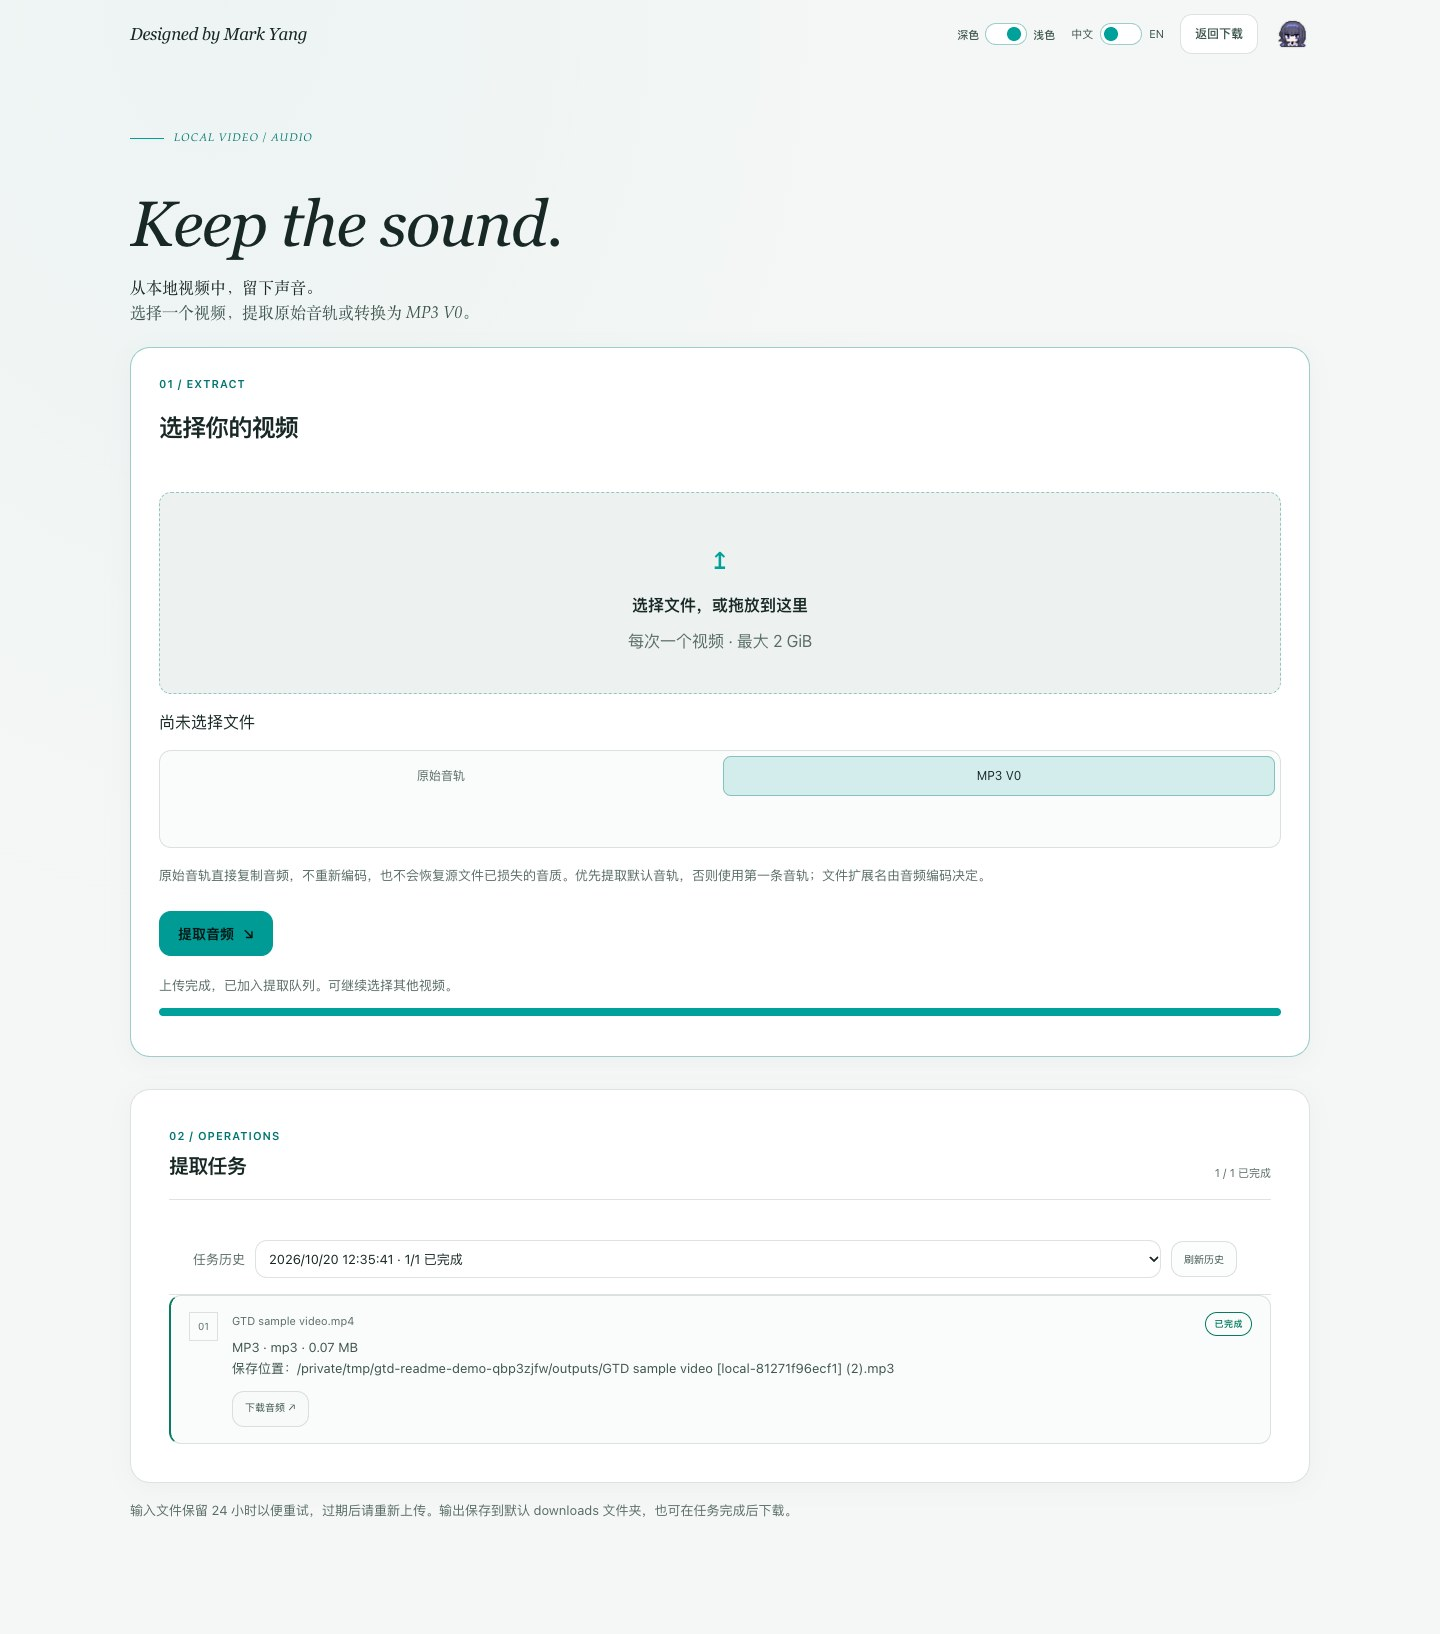
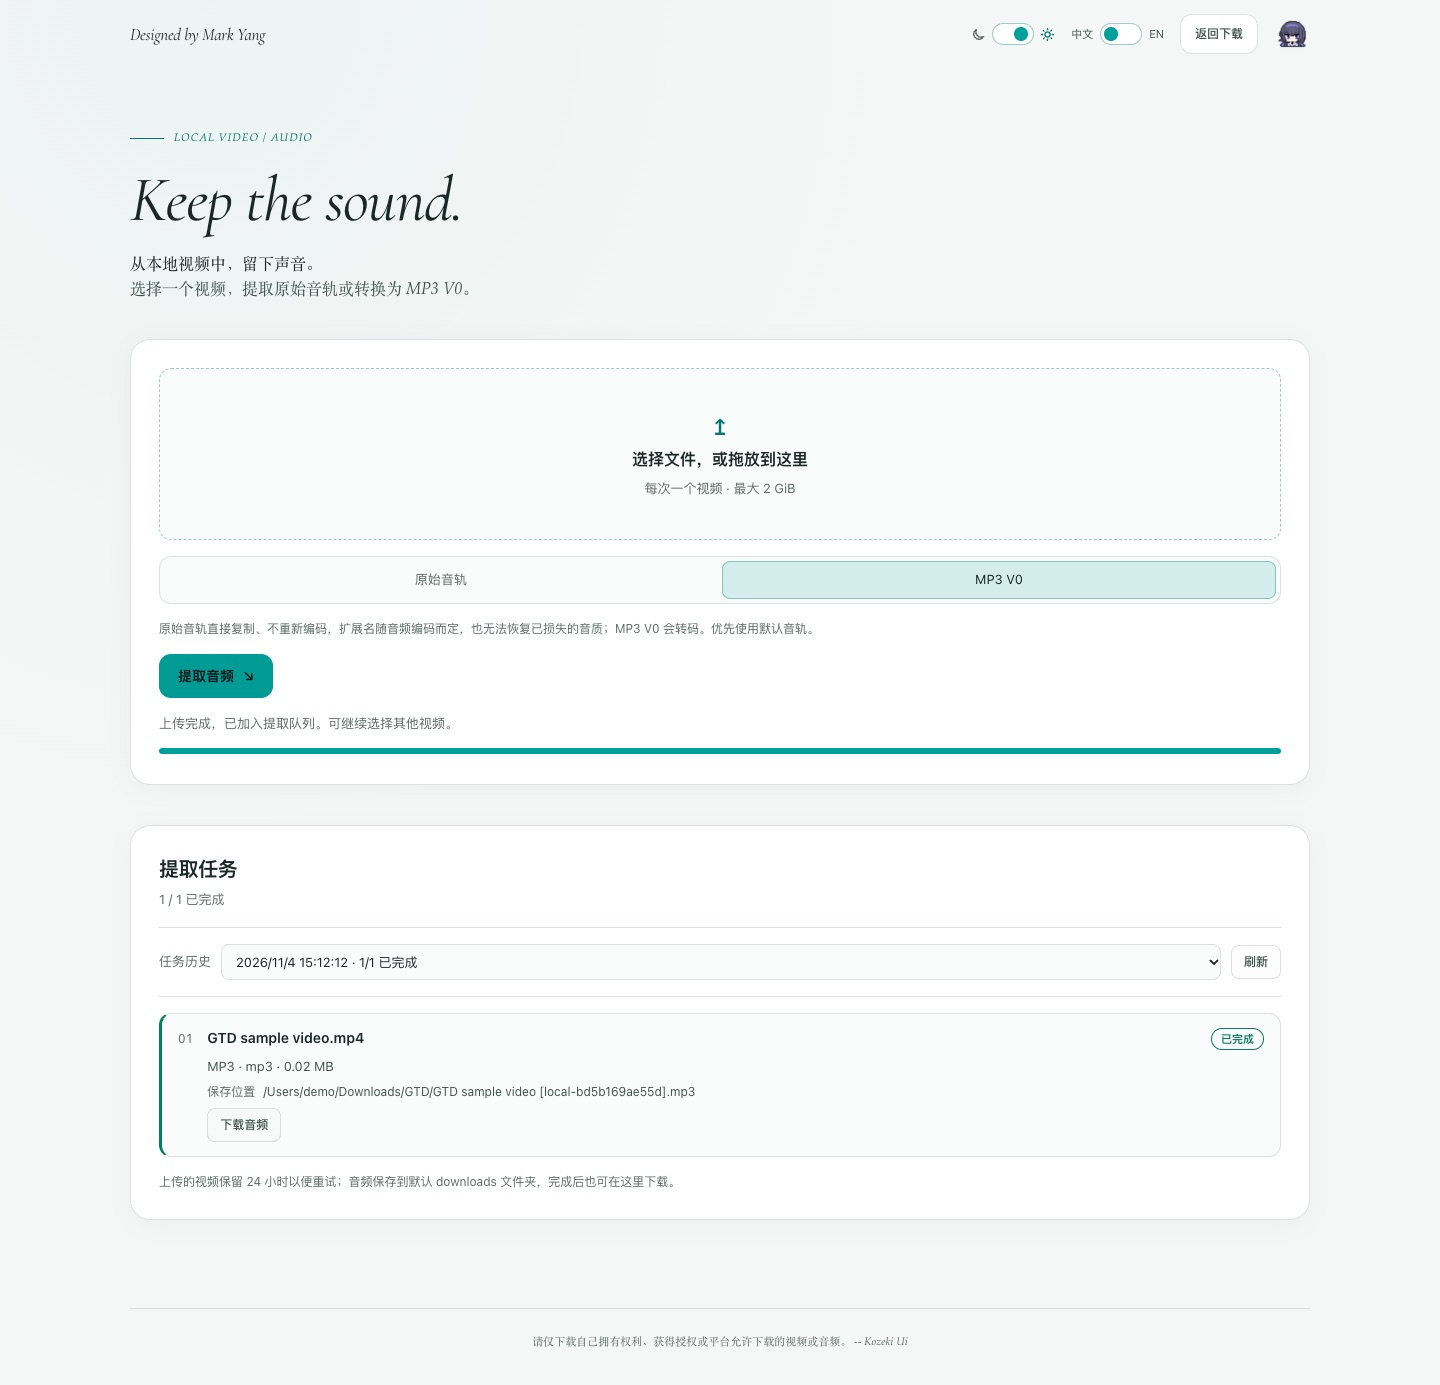
docs: describe the refreshed workspace and update screenshots

diff --git a/docs/WEB_GUIDE.en.md b/docs/WEB_GUIDE.en.md
@@ -10,18 +10,18 @@ Once the project web server is running, visit [http://127.0.0.1:8233](http://127
 
 Use the **ZH / EN** switch at the top right to change languages. Your choice applies across all project pages and is remembered in this browser.
 
-Use the **Dark / Light** slider in the upper-right corner to switch themes. Dark is the default; light uses clean white and soft gray surfaces. Both keep Petronas green accents. Your theme preference is independent of language, remembered in this browser, and shared across pages and tabs.
+Use the moon / sun slider in the upper-right corner to switch themes. Dark is the default; light uses clean white and soft gray surfaces. Both keep Petronas green accents. Your theme preference is independent of language, remembered in this browser, and shared across pages and tabs.
 
 > The web interface and system folder picker are intended for the local desktop session running this project. The browser does not read or upload arbitrary local folder contents.
 
 ## Download workflow
 
-1. To download video, paste links or platform share text into **Best-quality video**; for audio only, use **Best-quality audio**. Put each link on its own line.
+1. To download video, paste links or platform share text into **Best-quality video**; for audio only, use **Best-quality audio**. Put each link on its own line; the corner of the box shows how many of the 20 available lines you have used. Press Ctrl / ⌘ + Enter in the box to start downloading.
 2. Audio options are **MP3 V0**, **Source FLAC**, **Original audio**, and **WAV PCM**. WAV files are larger and do not improve source quality. Source FLAC automatically falls back to MP3 V0 when the platform does not provide FLAC.
 3. Under **Download location**, enter a path or click **Choose folder** to open the Windows/macOS system picker. Leave it blank to use the default `downloads/` shown on the page.
 4. The dropdown beside the download location keeps the last 3 folders successfully used in this browser. Duplicate paths are removed, with the most recently used path first.
 5. Single items are submitted directly. Playlists, collections, and multipart videos first open a preview panel. You can select up to 100 items at a time.
-6. After submitting, the task area shows the queue, speed, estimated time remaining, progress, processing stage, output specifications, and save path.
+6. After submitting, the page scrolls to the task area and the box clears, ready for the next batch. The task header shows active, queued, and parallel-limit counts; each task shows a progress bar, speed, estimated time remaining, processing stage, output specifications, and save path (one click selects the whole path).
 
 ## Video, audio, and output files
 
@@ -118,7 +118,7 @@ This tool is only for downloading video or audio you own, are authorized to use,
 
 ## Extract audio from a local video
 
-Choose **Extract audio from a local video** on the homepage, or open `/extract-audio`. Drop or select one local video (up to 2 GiB), choose **Original audio** or **MP3 V0**, and start extraction. Original audio copies the stream without re-encoding, using the default audio track or the first track when no default is set. AAC normally produces M4A; other extensions depend on the codec. Extraction cannot improve the source quality.
+Choose **Extract its audio locally** in the homepage's **Best-quality audio** card, or open `/extract-audio`. Drop or select one local video (up to 2 GiB), choose **Original audio** or **MP3 V0**, and start extraction. Original audio copies the stream without re-encoding, using the default audio track or the first track when no default is set. AAC normally produces M4A; other extensions depend on the codec. Extraction cannot improve the source quality.
 
 Upload and processing progress are shown separately. Extraction shares the existing queue, cancellation/retry, and task history. Results are saved to the default `downloads` folder and can also be saved with **Download audio**. Upload copies are staged in `state/audio_uploads` for 24 hours; expired inactive copies are cleaned on startup, upload, or extraction-history refresh. Re-upload after expiration to retry. Staging is limited to 8 GiB / 256 files. Source videos are unchanged and completed outputs are not automatically removed.
 

diff --git a/docs/WEB_GUIDE.md b/docs/WEB_GUIDE.md
@@ -2,7 +2,7 @@
 
 页面右上角的中文 / EN 开关可切换全站语言，选择会保存并在其他页面沿用。
 
-右上角的 **深色 / 浅色** 滑块可切换主题：默认使用深色，浅色采用简约白色与浅灰背景，两种主题均保留马石油绿点缀。主题选择独立于语言设置，浏览器会记住并跨页面、标签页同步。
+右上角带月亮 / 太阳图标的滑块可切换主题：默认使用深色，浅色采用简约白色与浅灰背景，两种主题均保留马石油绿点缀。主题选择独立于语言设置，浏览器会记住并跨页面、标签页同步。
 这里汇总 GTD — Generalized Transmedia Downloader 网页界面中的常用操作、下载格式、任务状态和问题处理方式。
 
 请使用 Python 3.10 或更高版本，并按 [README](../README.md) 的固定依赖基线安装。若需获取 yt-dlp 上游解析修复，可按 README 的说明主动切换更新通道。
@@ -15,12 +15,12 @@
 
 ## 下载操作流程
 
-1. 下载视频时，在 **最高画质视频** 区块粘贴链接或平台分享文案；只需要音频时，在 **最高音质音频** 区块操作。多个链接一行一个。
+1. 下载视频时，在 **最高画质视频** 区块粘贴链接或平台分享文案；只需要音频时，在 **最高音质音频** 区块操作。多个链接一行一个，输入框右下角显示已用行数（最多 20 行）；在输入框中按 Ctrl / ⌘ + Enter 可直接开始下载。
 2. 音频可选 **MP3 V0**、**源 FLAC**、**原始音轨**或 **WAV PCM**。WAV 文件较大且不会提升源音质；源站没有 FLAC 时，源 FLAC 会自动回退至 MP3 V0。
 3. 在 **下载位置** 中手动输入路径，或点击 **选择文件夹** 打开 Windows/macOS 系统选择器；留空则继续使用页面提示的默认 `downloads/`。
 4. 下载位置右侧的下拉按钮会保留当前浏览器最近成功使用的 3 个目录。相同路径自动去重，最近使用的排在最上方。
 5. 单条内容会直接提交；播放列表、合集与分 P 会先显示预览面板。一次最多选择 100 项。
-6. 点击下载后，可在下载任务区查看排队、速度、预计剩余时间、进度、处理阶段、输出规格及保存路径。
+6. 提交后页面会滚动到下载任务区，输入框随即清空，方便准备下一批。任务区标题旁显示下载中、排队和并发上限；每个任务可查看进度条、速度、预计剩余时间、处理阶段、输出规格及保存路径（单击路径即可整段选中）。
 
 ## 视频、音频与文件输出
 
@@ -115,7 +115,7 @@
 
 ## 从本地视频提取音频
 
-在首页点击 **本地视频提取音频**，或打开 `/extract-audio`。拖放或选择一个本地视频（单文件最大 2 GiB），选择 **原始音轨** 或 **MP3 V0** 后点击提取。原始音轨直接复制音频流，不重新编码；优先使用默认音轨，否则使用第一条音轨。AAC 通常输出 M4A，其他扩展名由编码决定，不会因提取而提升源音质。
+在首页 **最高音质音频** 区块中点击 **从本地视频提取音频**，或打开 `/extract-audio`。拖放或选择一个本地视频（单文件最大 2 GiB），选择 **原始音轨** 或 **MP3 V0** 后点击提取。原始音轨直接复制音频流，不重新编码；优先使用默认音轨，否则使用第一条音轨。AAC 通常输出 M4A，其他扩展名由编码决定，不会因提取而提升源音质。
 
 页面分别显示上传与处理进度，复用下载任务队列、取消/重试和历史记录。输出保存到默认 `downloads`，完成后也可点击 **下载音频**。上传副本在 `state/audio_uploads` 暂存 24 小时，过期且不在运行/排队中的副本会在服务启动、上传或刷新提取历史时清理；过期后重试需要重新上传。暂存上限 8 GiB / 256 个文件。源视频不会被修改，已完成的输出不会自动删除。
 

diff --git a/docs/REFERENCE.en.md b/docs/REFERENCE.en.md
@@ -433,7 +433,7 @@ Use **User Guide** in the upper-right corner of the main page to open `/guide`, 
 
 ### Extract audio from a local video
 
-Choose **Extract audio from a local video** on the homepage, or open `/extract-audio`. Drop or select one local video (up to 2 GiB), choose **Original audio** or **MP3 V0**, and start extraction. Original audio copies the stream without re-encoding, using the default audio track or the first track when no default is set. AAC normally produces M4A; other extensions depend on the codec. Extraction cannot improve the source quality. Supported containers include MP4/MOV, MKV/WebM, AVI, MPEG-TS/MPEG, FLV, ASF, and Ogg. The file must contain both video and audio; only one track is extracted from multitrack files. This feature does not apply the link downloader’s artwork fallback or preserve video chapters and other metadata.
+Choose **Extract its audio locally** in the homepage's **Best-quality audio** card, or open `/extract-audio`. Drop or select one local video (up to 2 GiB), choose **Original audio** or **MP3 V0**, and start extraction. Original audio copies the stream without re-encoding, using the default audio track or the first track when no default is set. AAC normally produces M4A; other extensions depend on the codec. Extraction cannot improve the source quality. Supported containers include MP4/MOV, MKV/WebM, AVI, MPEG-TS/MPEG, FLV, ASF, and Ogg. The file must contain both video and audio; only one track is extracted from multitrack files. This feature does not apply the link downloader’s artwork fallback or preserve video chapters and other metadata.
 
 Upload and processing progress are shown separately. Extraction shares the existing queue, cancellation/retry, and task history. Results are saved to the default `downloads` folder and can also be saved with **Download audio**. Names include the video name and upload ID, such as `clip [local-xxxxxxxxxxxx].m4a`; repeated outputs use increasing suffixes to avoid overwriting files. The extraction page lists only extraction history; the downloader’s shared history also shows these tasks and their audio download links. Upload copies are staged in `state/audio_uploads` for 24 hours; expired inactive copies are cleaned on startup, upload, or extraction-history refresh. Re-upload after expiration to retry. Staging is limited to 8 GiB / 256 files. Source videos are unchanged and completed outputs are not automatically removed.
 
@@ -454,7 +454,7 @@ Use the **Dark / Light** slider in the upper-right corner to switch themes. Dark
 7. The task list shows queued, downloading, non-interruptible turbo download, completed, failed, and canceled states, along with speed, estimated time remaining, progress, output specifications, and save paths.
 8. Failed tasks show a stable `error_code`, an explanation, and suggestions in the selected website language. Expand each attempt to view its status and time.
 9. Cancel queued or standard download tasks; retry failed or canceled tasks, or retry all eligible failed tasks in a batch. Download completed tasks again while keeping the original files.
-10. Each input area has its own **Clear Input** button. Tasks retain the selected download directory for their batch; retrying or downloading again does not revert to the default directory.
+10. Each input area has its own **Clear** button, and the box also clears after a successful submission. Tasks retain the selected download directory for their batch; retrying or downloading again does not revert to the default directory.
 
 > The download directory picker appears only on the Windows/macOS computer running Flask. Remote visitors still select a server directory; enter a server path manually if the picker is unavailable. The extraction page’s file chooser instead uploads a video explicitly selected on the device running the browser.
 

diff --git a/docs/REFERENCE.md b/docs/REFERENCE.md
@@ -425,7 +425,7 @@ python app.py
 
 ### 从本地视频提取音频
 
-在首页点击 **本地视频提取音频**，或打开 `/extract-audio`。拖放或选择一个本地视频（单文件最大 2 GiB），选择 **原始音轨** 或 **MP3 V0** 后点击提取。原始音轨直接复制音频流，不重新编码；优先使用默认音轨，否则使用第一条音轨。AAC 通常输出 M4A，其他扩展名由编码决定，不会因提取而提升源音质。支持 MP4/MOV、MKV/WebM、AVI、MPEG-TS/MPEG、FLV、ASF、Ogg 等容器；文件必须实际包含视频和音频流，多音轨当前仅提取一条。此功能不使用链接下载的封面补全流程，也不保留视频章节等元数据。
+在首页 **最高音质音频** 区块中点击 **从本地视频提取音频**，或打开 `/extract-audio`。拖放或选择一个本地视频（单文件最大 2 GiB），选择 **原始音轨** 或 **MP3 V0** 后点击提取。原始音轨直接复制音频流，不重新编码；优先使用默认音轨，否则使用第一条音轨。AAC 通常输出 M4A，其他扩展名由编码决定，不会因提取而提升源音质。支持 MP4/MOV、MKV/WebM、AVI、MPEG-TS/MPEG、FLV、ASF、Ogg 等容器；文件必须实际包含视频和音频流，多音轨当前仅提取一条。此功能不使用链接下载的封面补全流程，也不保留视频章节等元数据。
 
 页面分别显示上传与处理进度，复用下载任务队列、取消/重试和历史记录。输出保存到默认 `downloads`，完成后也可点击 **下载音频**。文件名包含原视频名与上传标识，例如 `clip [local-xxxxxxxxxxxx].m4a`；同一任务再次输出时使用递增后缀避免覆盖。提取页历史只列本地提取任务；下载首页共享历史也可查看这些任务及其下载链接。上传副本在 `state/audio_uploads` 暂存 24 小时，过期且不在运行/排队中的副本会在服务启动、上传或刷新提取历史时清理；过期后重试需要重新上传。暂存上限 8 GiB / 256 个文件。源视频不会被修改，已完成的输出不会自动删除。
 
@@ -448,7 +448,7 @@ python app.py
 7. 下方任务列表会显示等待、下载、不可中断的极速下载、完成、失败和已取消状态，并显示下载速度、预计剩余时间、进度、输出规格及保存路径。
 8. 失败任务显示稳定的 `error_code`，以及当前网页语言的说明和建议；每次尝试可展开查看状态和时间。
 9. 可取消等待中或标准下载任务；失败/取消后可重试，批次中可一次重试所有可重试失败项；完成后可重新下载并保留旧文件。
-10. 每个输入区都有独立的 **“清空输入”**。任务会保持本批次选择的下载位置，重试和重新下载不会退回默认目录。
+10. 每个输入区都有独立的 **“清空”** 按钮，提交成功后输入框也会自动清空。任务会保持本批次选择的下载位置，重试和重新下载不会退回默认目录。
 
 > 下载位置的文件夹选择器只会在运行 Flask 的 Windows/macOS 电脑上弹出；其他设备访问时，选择的仍是服务端目录。系统选择器不可用时可手动输入服务端路径。视频提取页的文件选择框则用于上传当前浏览器设备上由用户明确选择的视频，两者用途不同。
 
